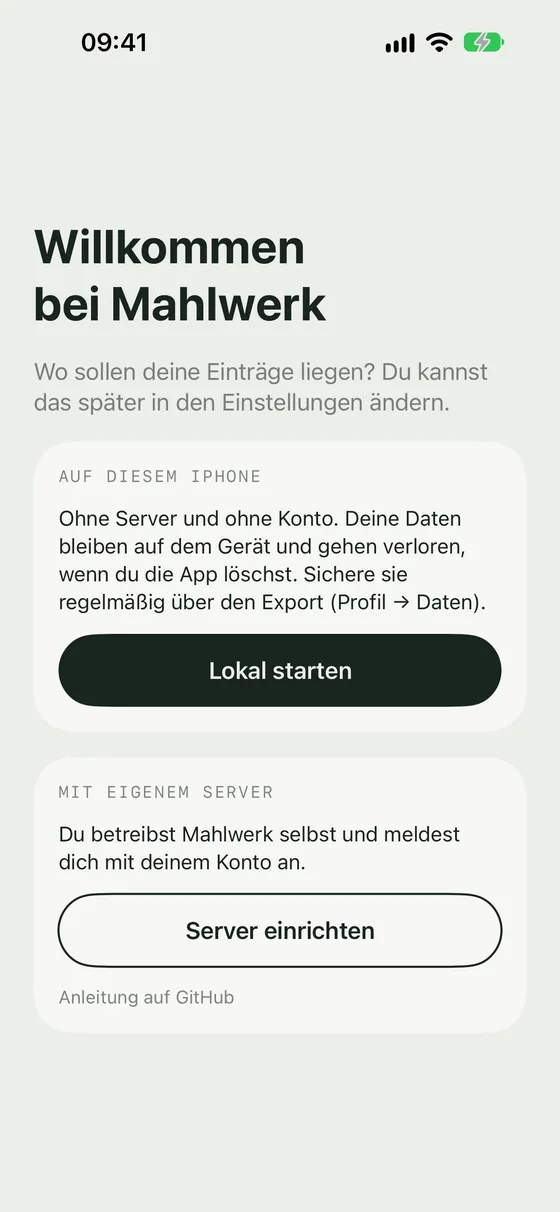
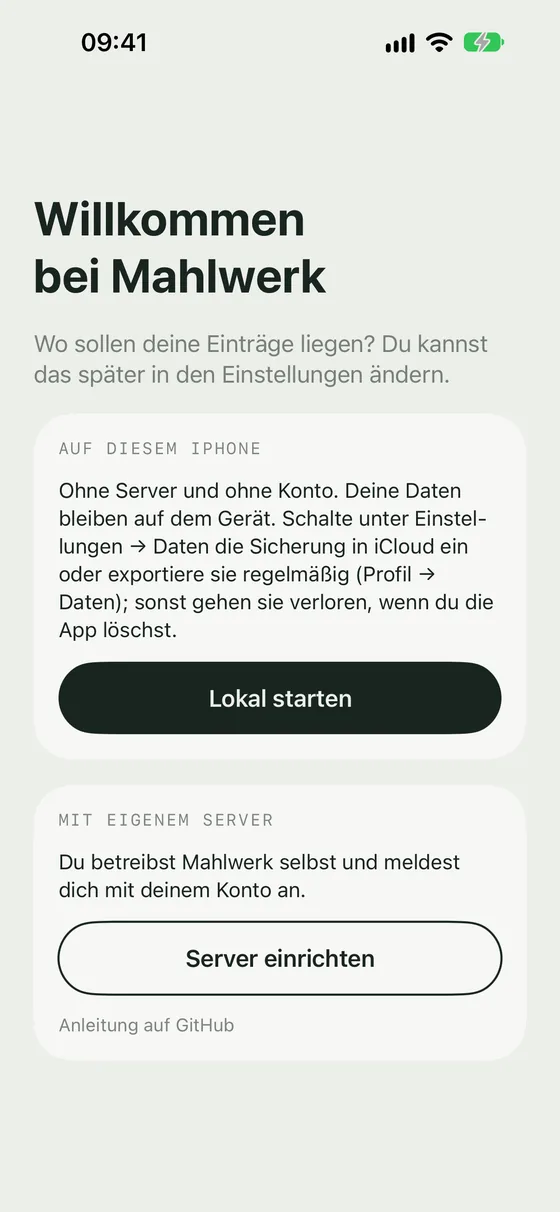
Site: first-start screenshots with the new backup text; the iCloud backup is switched on in the settings

Changed region(s): [[0.0607, 0.1526, 0.9107, 0.6106], [0.0911, 0.6411, 0.9107, 0.8548]]

diff --git a/site/de/index.html b/site/de/index.html
@@ -128,7 +128,7 @@ try { var t = localStorage.getItem('mahlwerk.theme'); if (t === 'light' || t ===
 <p>Mahlwerk gibt es auch als App für das iPhone, mit derselben Oberfläche wie im Browser. Sie läuft auf zwei Arten, und du kannst von einer zur anderen umziehen.</p>
 <div class="two" style="margin-top:28px"><div>
 <h3>Lokal, ohne Server</h3>
-<ul class="plain"><li>Alles läuft auf dem iPhone. Die Daten liegen nur dort, eine Person, keine Anmeldung.</li><li>Tagebuch, Vorlagen, Wasser, Fasten, Gewicht, Training, Ziele, Auswertung, Abzeichen, eigene Produkte und Rezepte: derselbe Kern mit denselben Regeln wie mit Server.</li><li>Sicherung als Datei in iCloud Drive; nach einer Neuinstallation bietet die App an, sie zurückzuholen. Dazu „Meine Daten exportieren“ als ZIP über das Teilen-Fenster.</li><li>Ohne Internet geht alles außer der Barcode-Suche bei Open Food Facts, Cookidoo und dem Katalog-Download.</li><li>Das fehlt lokal: Fotoerkennung, Rezeptbilder hochladen, Rezepte von Webseiten, die direkte Yazio-Anmeldung (die Export-Datei lässt sich einlesen), Zugangsschlüssel, Webhooks und mehrere Personen.</li></ul>
+<ul class="plain"><li>Alles läuft auf dem iPhone. Die Daten liegen nur dort, eine Person, keine Anmeldung.</li><li>Tagebuch, Vorlagen, Wasser, Fasten, Gewicht, Training, Ziele, Auswertung, Abzeichen, eigene Produkte und Rezepte: derselbe Kern mit denselben Regeln wie mit Server.</li><li>Sicherung als Datei in iCloud Drive, wenn du sie in den Einstellungen einschaltest; nach einer Neuinstallation bietet die App an, sie zurückzuholen. Dazu „Meine Daten exportieren“ als ZIP über das Teilen-Fenster.</li><li>Ohne Internet geht alles außer der Barcode-Suche bei Open Food Facts, Cookidoo und dem Katalog-Download.</li><li>Das fehlt lokal: Fotoerkennung, Rezeptbilder hochladen, Rezepte von Webseiten, die direkte Yazio-Anmeldung (die Export-Datei lässt sich einlesen), Zugangsschlüssel, Webhooks und mehrere Personen.</li></ul>
 </div><div>
 <h3>Mit deinem Mahlwerk-Server</h3>
 <ul class="plain"><li>Die App spricht mit deinem eigenen Server und meldet sich so an, wie es der Server vorgibt, auch mit Passkey.</li><li>Dieselbe Oberfläche wie im Browser; was du in der App änderst, ist sofort auf dem Server und im Browser.</li><li>Alles, was der Server kann und was dort eingeschaltet ist: Rezeptbilder, Cookidoo, Rezepte von Webseiten, Fotoerkennung, mehrere Personen.</li></ul>

diff --git a/site/index.html b/site/index.html
@@ -128,7 +128,7 @@ try { var t = localStorage.getItem('mahlwerk.theme'); if (t === 'light' || t ===
 <p>Mahlwerk also comes as an iPhone app, with the same interface as in the browser. It runs in two ways, and you can move from one to the other.</p>
 <div class="two" style="margin-top:28px"><div>
 <h3>Local, without a server</h3>
-<ul class="plain"><li>Everything runs on the iPhone. The data lives only there, one person, no sign-in.</li><li>Diary, templates, water, fasting, weight, workouts, goals, insights, badges, own products and recipes: the same core with the same rules as with a server.</li><li>Backup as a file in iCloud Drive; after a reinstall the app offers to bring it back. Plus “Export my data” as a ZIP through the share sheet.</li><li>Without internet everything works except the barcode lookup at Open Food Facts, Cookidoo and the catalogue download.</li><li>Missing locally: photo recognition, uploading recipe pictures, recipes from web pages, the direct Yazio sign-in (the export file can be imported), access keys, webhooks and several people.</li></ul>
+<ul class="plain"><li>Everything runs on the iPhone. The data lives only there, one person, no sign-in.</li><li>Diary, templates, water, fasting, weight, workouts, goals, insights, badges, own products and recipes: the same core with the same rules as with a server.</li><li>Backup as a file in iCloud Drive once you switch it on in the settings; after a reinstall the app offers to bring it back. Plus “Export my data” as a ZIP through the share sheet.</li><li>Without internet everything works except the barcode lookup at Open Food Facts, Cookidoo and the catalogue download.</li><li>Missing locally: photo recognition, uploading recipe pictures, recipes from web pages, the direct Yazio sign-in (the export file can be imported), access keys, webhooks and several people.</li></ul>
 </div><div>
 <h3>With your own Mahlwerk server</h3>
 <ul class="plain"><li>The app talks to your own server and signs in the way the server is set up, passkeys included.</li><li>The same interface as in the browser; what you change in the app is on the server and in the browser at once.</li><li>Everything the server can do and has switched on: recipe pictures, Cookidoo, recipes from web pages, photo recognition, several people.</li></ul>
